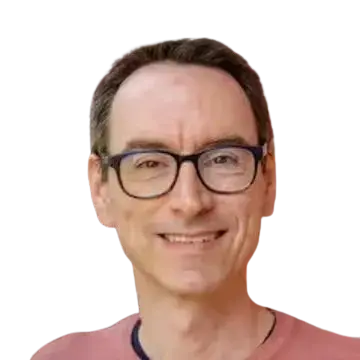
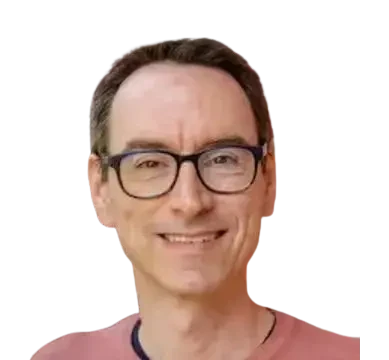
Initial commit

diff --git a/style.css b/style.css
@@ -85,7 +85,7 @@ img, svg { display: block; }
   inset: -24px;
   z-index: -2;
   background: url("images/budapest-bg.webp") center / cover no-repeat;
-  filter: blur(2px) saturate(1.1);
+  filter: filter: blur(6px) saturate(1.1);
   transform: scale(1.05) translateZ(0);
 }
 
@@ -103,12 +103,16 @@ img, svg { display: block; }
 
 .avatar {
   width: var(--avatar);
-  height: var(--avatar);
-  border-radius: 50%;
-  object-fit: cover;
-  border: 1px solid var(--card);
-  outline: 1px solid rgba(246, 199, 160, .6);
-  box-shadow: 0 14px 30px -10px rgba(0, 0, 0, .6);
+  height: auto;              /* ne torzuljon, ha nem négyzetes a kivágás */
+  border: 0;
+  outline: 0;
+  border-radius: 0;          /* az alakot az alfacsatorna adja */
+  object-fit: contain;
+  /* drop-shadow az alakot követi, a box-shadow a doboz szélét rajzolná ki */
+  filter: drop-shadow(0 14px 20px rgba(0, 0, 0, .45)) saturate(.97);
+  /* a váll alsó, egyenes vágása beleolvad a headerbe */
+  -webkit-mask-image: linear-gradient(180deg, #000 90%, transparent 100%);
+          mask-image: linear-gradient(180deg, #000 90%, transparent 100%);
   margin-bottom: 16px;
 }
 
